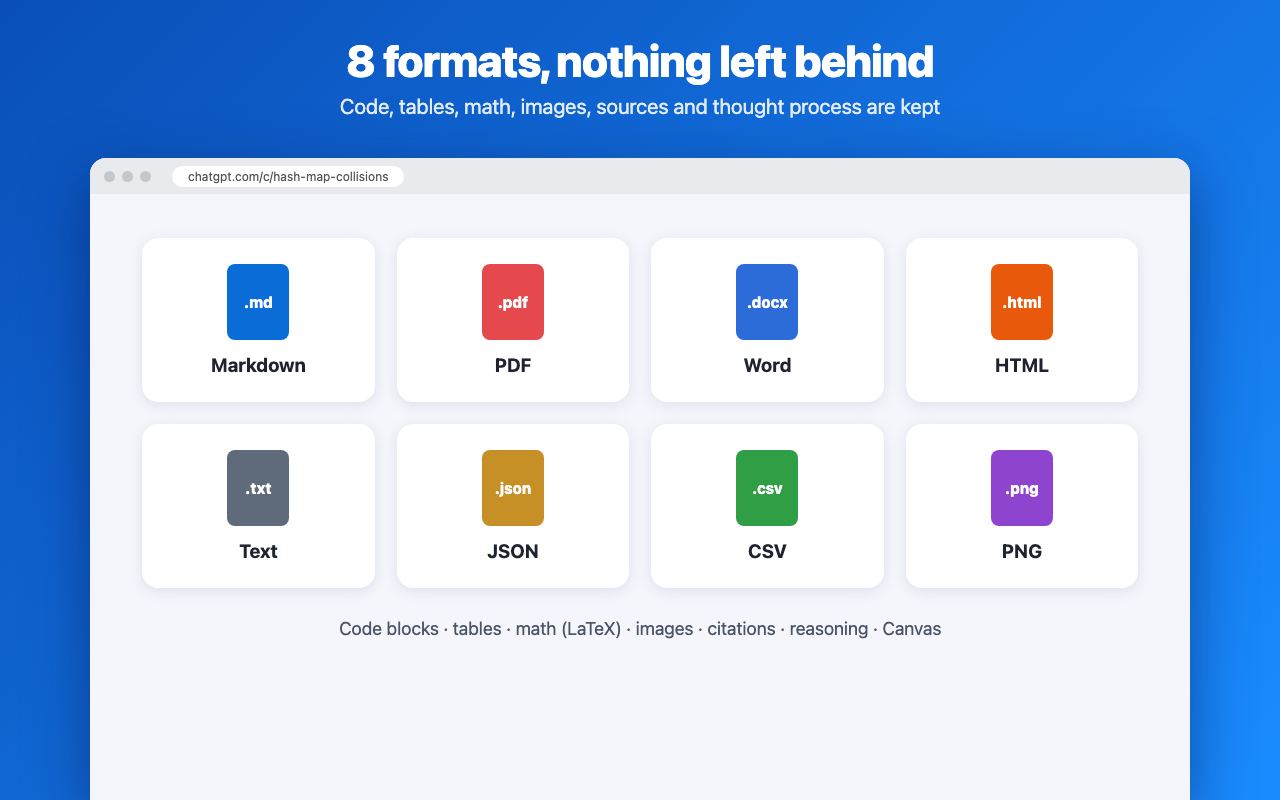
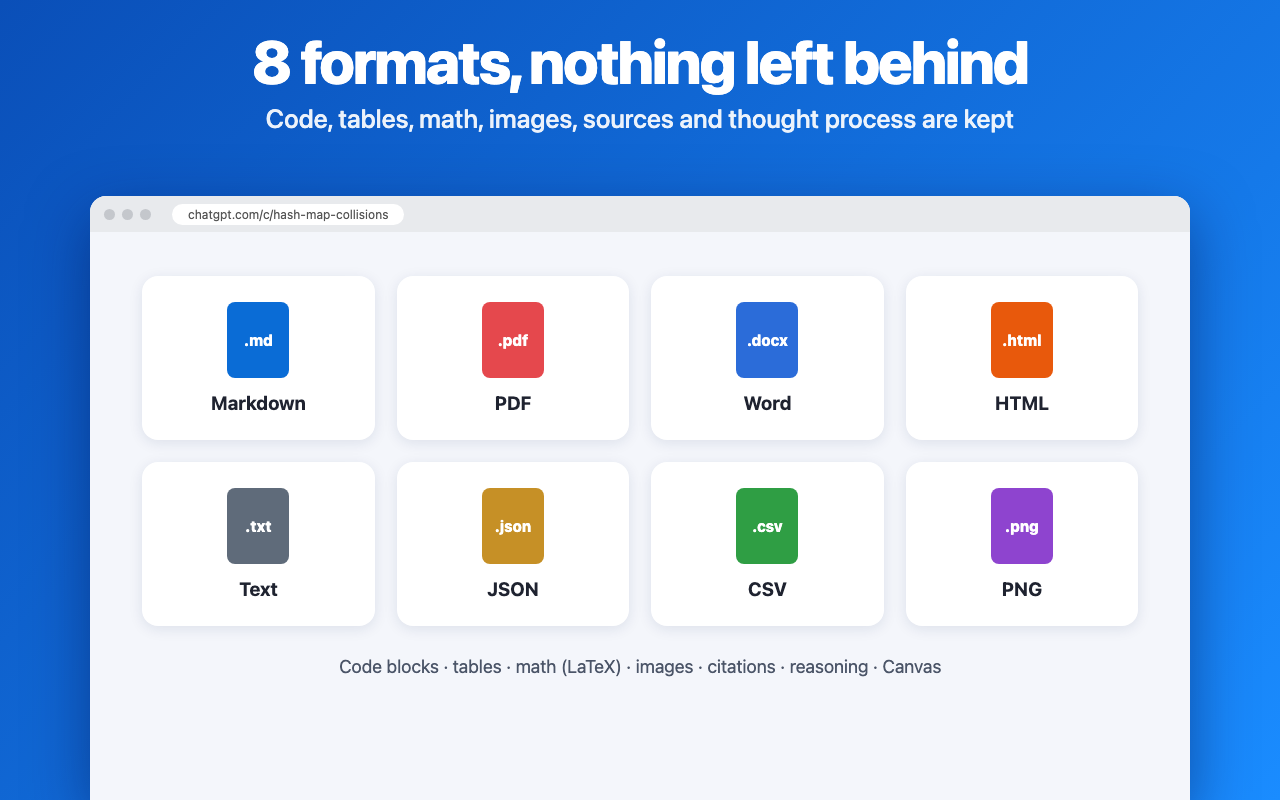
Bolder store screenshots, feature-list shot, keyword-rich store name

diff --git a/store-assets/build.js b/store-assets/build.js
@@ -64,8 +64,8 @@ const panel = `<div class="panel" style="width:372px;right:0;top:0;bottom:0"><di
 const GRAD = 'linear-gradient(135deg,#0a4fb8 0%,#1a8cff 100%)';
 const frame = (title, sub, inner, w = 1280, h = 800) => `<!doctype html><meta charset=utf-8><style>${base}
 html,body{width:${w}px;height:${h}px}body{background:${GRAD};position:relative;color:#fff}
-.head{position:absolute;left:0;right:0;top:34px;text-align:center}.head h1{font-size:44px;font-weight:800;letter-spacing:-.02em}.head p{font-size:21px;opacity:.88;margin-top:8px}
-.win{position:absolute;left:90px;right:90px;top:158px;bottom:0;border-radius:16px 16px 0 0;overflow:hidden;box-shadow:0 20px 60px rgba(0,20,80,.5);background:#fff}
+.head{position:absolute;left:0;right:0;top:30px;text-align:center}.head h1{font-size:60px;font-weight:800;letter-spacing:-.03em;line-height:1.05}.head p{font-size:26px;opacity:.92;margin-top:10px;font-weight:500}
+.win{position:absolute;left:90px;right:90px;top:196px;bottom:0;border-radius:16px 16px 0 0;overflow:hidden;box-shadow:0 20px 60px rgba(0,20,80,.5);background:#fff}
 .bar{height:36px;background:#e8eaed;display:flex;align-items:center;gap:7px;padding:0 14px}.bar i{width:11px;height:11px;border-radius:50%;background:#c4c7cc}.bar span{margin-left:14px;background:#fff;border-radius:12px;padding:3px 16px;font-size:12px;color:#555}
 .vp{position:absolute;top:36px;left:0;right:0;bottom:0}</style>
 <div class="head"><h1>${title}</h1><p>${sub}</p></div>
@@ -81,9 +81,11 @@ const docPrev = (dark) => `<div style="position:absolute;inset:0;background:#e9e
 const privacy = `<div style="position:absolute;inset:0;background:#f4f6fb;display:flex;align-items:center;justify-content:center;gap:26px;color:#1f2330;padding:0 60px">
  ${[['🔒', 'Runs locally', 'Conversations are converted in your browser. Nothing is sent to our servers.'], ['👁', 'No tracking', 'No analytics, no ads, no remote code.'], ['⚡', 'Instant', 'Uses your logged-in session, so exports are exact and fast.']].map(c => `<div style="flex:1;background:#fff;border-radius:18px;padding:34px 26px;box-shadow:0 3px 14px rgba(20,40,90,.1)"><div style="font-size:42px">${c[0]}</div><div style="font-weight:800;font-size:23px;margin:12px 0 8px">${c[1]}</div><div style="font-size:16px;color:#4b5568;line-height:1.5">${c[2]}</div></div>`).join('')}</div>`;
 
+const feat = `<div style="position:absolute;inset:0;background:#f4f6fb;display:flex;align-items:center;padding:0 80px;gap:50px;color:#1f2330"><ul style="list-style:none;font-size:30px;font-weight:700;line-height:1.35;flex:1">${['Export to 8 formats','Pick only the messages you need','Copy to Docs, Word or Notion','Bulk export all your chats','Keeps code, tables, math &amp; images'].map(t=>`<li style="margin:12px 0"><span style="color:#0a6cd6">✓</span> ${t}</li>`).join('')}</ul><div style="width:320px;background:#fff;border-radius:16px;box-shadow:0 8px 30px rgba(20,40,90,.18);padding:20px 22px;font-size:15px"><div style="font-weight:800;font-size:18px;margin-bottom:12px">PDF settings</div>${['Page size|A4','Margins|Normal','Theme|Dark','Font size|14','Table of contents|On','Page numbers|On'].map(r=>`<div style="display:flex;justify-content:space-between;padding:9px 0;border-bottom:1px solid #e6e8ee"><span style="color:#6b7280">${r.split('|')[0]}</span><b>${r.split('|')[1]}</b></div>`).join('')}</div></div>`;
 const shots = {
   '1-export-menu': frame('Export any ChatGPT chat in one click', 'PDF, Markdown, Word, HTML, Text, JSON, CSV or PNG', chat(false) + dock(exportMenu)),
   '2-select-messages': frame('Pick exactly the messages you need', 'Tick messages, shift-click ranges, or filter questions and answers', chat(true) + dock() + `<div class="ce">${panel}</div>`),
+  '6-features': frame('Everything you need to export', 'Fast, flexible and private', feat),
   '3-formats': frame('8 formats, nothing left behind', 'Code, tables, math, images, sources and thought process are kept', grid),
   '4-pdf-themes': frame('Beautiful PDFs, light or dark', 'Page size, fonts, margins, table of contents and page numbers', docPrev()),
   '5-private': frame('Private by design', 'Your conversations never leave your browser', privacy)

diff --git a/STORE_LISTING.md b/STORE_LISTING.md
@@ -1,7 +1,7 @@
 # Chrome Web Store submission notes (not shipped in the zip)
 
 ## Listing
-- **Name:** ChatGPT Exporter  (see "Trademark risk" below)
+- **Name (manifest, keyword-rich like the top competitor):** ChatGPT Exporter - Save ChatGPT to PDF, Markdown, Word
 - **Summary (<=132 chars):** Export ChatGPT chats to PDF, Markdown, Word, HTML, Text, JSON, CSV or PNG. Select messages, copy to Docs or Notion.
 - **Category:** Productivity
 - **Language:** English
